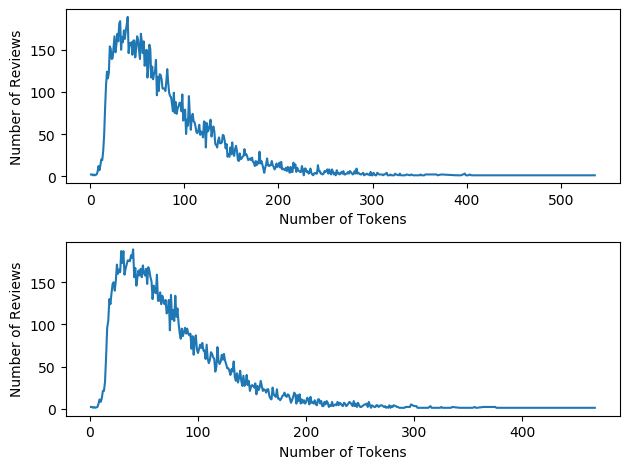
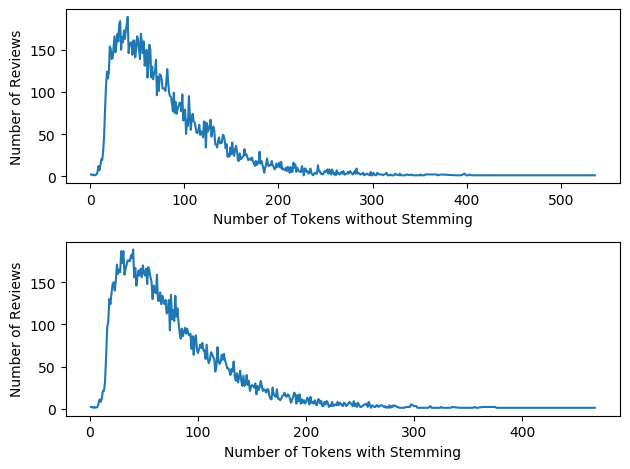
Finished the second part of tokenization and stemming

Changed region(s): [[0.3317, 0.4478, 0.754, 0.4776], [0.3619, 0.9552, 0.754, 0.9851]]

diff --git a/part1/Tokenization&Stemming.py b/part1/Tokenization&Stemming.py
@@ -1,9 +1,10 @@
 import nltk
 import matplotlib.pyplot as plt
-import collections
 import ndjson
+import operator
 import re
 nltk.download('punkt')
+nltk.download('stopwords')
 
 
 def get_reviews(path):
@@ -44,8 +45,6 @@ def plot_frequency_for_num_of_tokens(reviews_without_stem, reviews_with_stem):
     token_count_without_stem = list(zip(*token_count_without_stem))
     token_count_with_stem = sorted(token_count_with_stem.items())
     token_count_with_stem = list(zip(*token_count_with_stem))
-    print(token_count_without_stem)
-    print(token_count_with_stem)
 
     plt.figure()
     plt.plot(token_count_without_stem[0], token_count_without_stem[1], label='Without Stemming')
@@ -56,23 +55,73 @@ def plot_frequency_for_num_of_tokens(reviews_without_stem, reviews_with_stem):
     plt.savefig('With&Without_Stemming_Together.png', bbox_inches='tight', dpi=100)
 
     fig, axs = plt.subplots(2)
-    axs[0].plot(token_count_without_stem[0], token_count_without_stem[1])
-    axs[1].plot(token_count_with_stem[0], token_count_with_stem[1])
+    axs[0].plot(token_count_without_stem[0], token_count_without_stem[1], label='Without Stemming')
+    axs[1].plot(token_count_with_stem[0], token_count_with_stem[1], label='With Stemming')
     for ax in axs:
-        ax.set(xlabel='Number of Tokens', ylabel='Number of Reviews')
+        ax.set(ylabel='Number of Reviews')
+    axs[0].set(xlabel='Number of Tokens without Stemming')
+    axs[1].set(xlabel='Number of Tokens with Stemming')
     fig.tight_layout()
     fig.savefig('With&Without_Stemming_Separate.png', bbox_inches='tight', dpi=100)
 
 
-reviews = get_reviews('../data/reviewSelected100.json')
-tokenized_reviews = []
+def plot_frequency_for_top_frequency_words(reviews_without_stem, reviews_with_stem):
+    stop_words = set(nltk.corpus.stopwords.words('english'))
+    stop_words.update(['The', 'n\'t', 'I', '\'s', 'We', 'get', 'would', 'It', 'one', 'place', 'They', 'go', 'This',
+                       '\'ve', 'got', 'us', 'my', 'could', 'also', 'even', 'also', '\'m', 'always', 'came', 'come',
+                       'made', 'said', 'going', 'know', 'If', 'day', '\'re', 'two', '2', 'say', 'take', 'way', 'still',
+                       'ever', 'give', 'told', 'eat', 'minutes', 'around', 'So', 'asked', 'see', 'There', 'since',
+                       '\'ll', 'took', 'She', 'He', 'You', 'next', 'But', '3', 'And', '5', 'When', 'every', 'A',
+                       'something', 'tried', 'ca', 'Not', 'everything', '\'d', 'called', 'done', 'coming', 'things',
+                       'wa', 'thi', 'veri', 'realli', 'becaus', 'alway', 'ha', 'ani', 'use', 'really' 'This',
+                       'My', 'make', 'went', 'ask', 'definit', 'definitely', 'work', 'thing', 'order', 'ordered'])
 
+    top_frequency_words_without_stem = {}
+    top_frequency_words_with_stem = {}
+    for i in range(len(reviews_without_stem)):
+        for token in reviews_without_stem[i]:
+            if token not in stop_words and not re.match(r'^[_\W]+$', token):
+                if token not in top_frequency_words_without_stem:
+                    top_frequency_words_without_stem[token] = 1
+                else:
+                    top_frequency_words_without_stem[token] += 1
+        for token in reviews_with_stem[i]:
+            if token not in stop_words and not re.match(r'^[_\W]+$', token):
+                if token not in top_frequency_words_with_stem:
+                    top_frequency_words_with_stem[token] = 1
+                else:
+                    top_frequency_words_with_stem[token] += 1
+
+    top_frequency_words_with_stem = sorted(top_frequency_words_with_stem.items(), key=operator.itemgetter(1))
+    top_frequency_words_without_stem = sorted(top_frequency_words_without_stem.items(), key=operator.itemgetter(1))
+    top_frequency_words_with_stem = top_frequency_words_with_stem[len(top_frequency_words_with_stem) - 20
+                                                                  :len(top_frequency_words_with_stem)]
+    top_frequency_words_without_stem = top_frequency_words_without_stem[len(top_frequency_words_without_stem) - 20
+                                                                  :len(top_frequency_words_without_stem)]
+    top_frequency_words_with_stem = list(zip(*top_frequency_words_with_stem))
+    top_frequency_words_without_stem = list(zip(*top_frequency_words_without_stem))
+
+    plt.figure()
+    plt.bar(range(20), top_frequency_words_without_stem[1], align='center')
+    plt.xticks(range(20), top_frequency_words_without_stem[0], rotation='60')
+    plt.ylabel('Number of Occurence without Stemming')
+    plt.savefig('Top_Frequency_Words_Without_Stemming.png', bbox_inches='tight', dpi=100)
+
+    plt.figure()
+    plt.bar(range(20), top_frequency_words_with_stem[1], align='center')
+    plt.xticks(range(20), top_frequency_words_with_stem[0], rotation='60')
+    plt.ylabel('Number of Occurence with Stemming')
+    plt.savefig('Top_Frequency_Words_With_Stemming.png', bbox_inches='tight', dpi=100)
+
+
+reviews = get_reviews('../data/reviewSelected100.json')
+
+tokenized_reviews = []
 for review in reviews:
     tokens = nltk.tokenize.word_tokenize(review)
     tokenized_reviews.append(list(tokens))
 
 ps = nltk.PorterStemmer()
-
 stemmed_reviews = []
 for tokenized_review in tokenized_reviews:
     stemmed_review = []
@@ -82,25 +131,8 @@ for tokenized_review in tokenized_reviews:
     stemmed_reviews.append(stemmed_review)
 
 plot_frequency_for_num_of_tokens(tokenized_reviews, stemmed_reviews)
+plot_frequency_for_top_frequency_words(tokenized_reviews, stemmed_reviews)
 
-
-
-# # only for saving the tokenized data
-# data_to_save = []
-# for i in range(len(tokenized_reviews)):
-#     review_to_save = {'tokens without stemming': tokenized_reviews[i],
-#                       'tokens with stemming': stemmed_reviews[i]}
-#     data_to_save.append(review_to_save)
-# save_data(data_to_save, '../data/reviewTokenized100.json')
-
-# print(len(stemmed_reviews))
-# for i in range(4):
-#     print(tokenized_reviews[i])
-#     print(len(tokenized_reviews[i]))
-#     print(len(set(tokenized_reviews[i])))
-#     print(stemmed_reviews[i])
-#     print(len(stemmed_reviews[i]))
-#     print(len(set(stemmed_reviews[i])))
 
 
 
